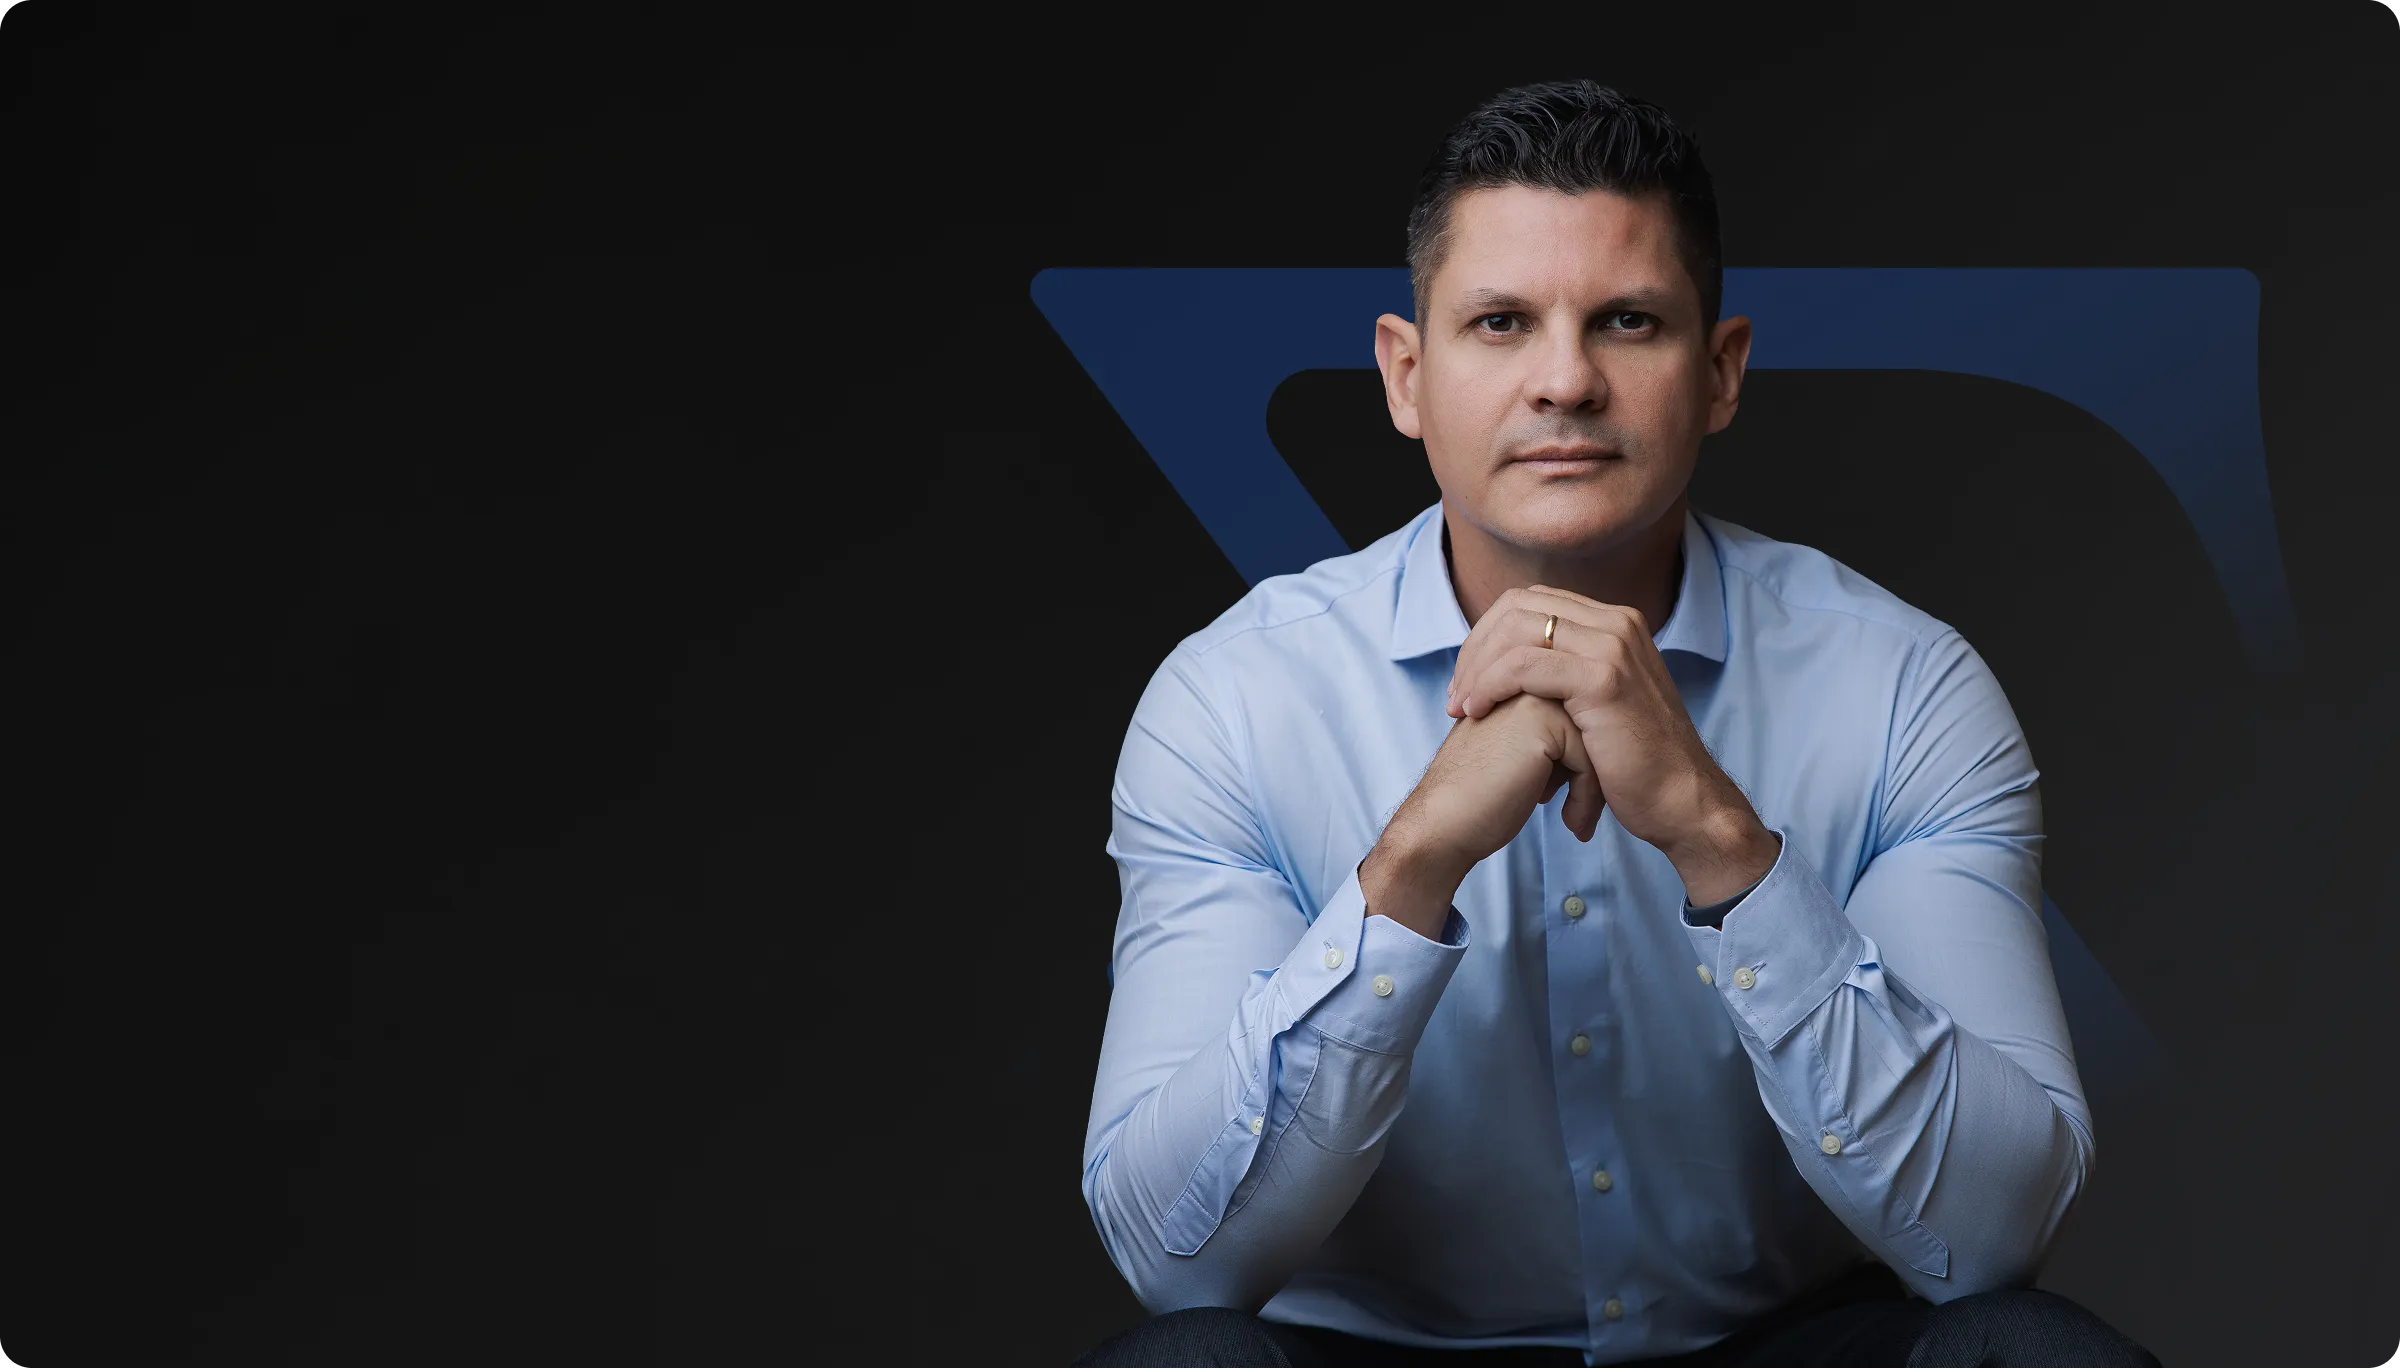
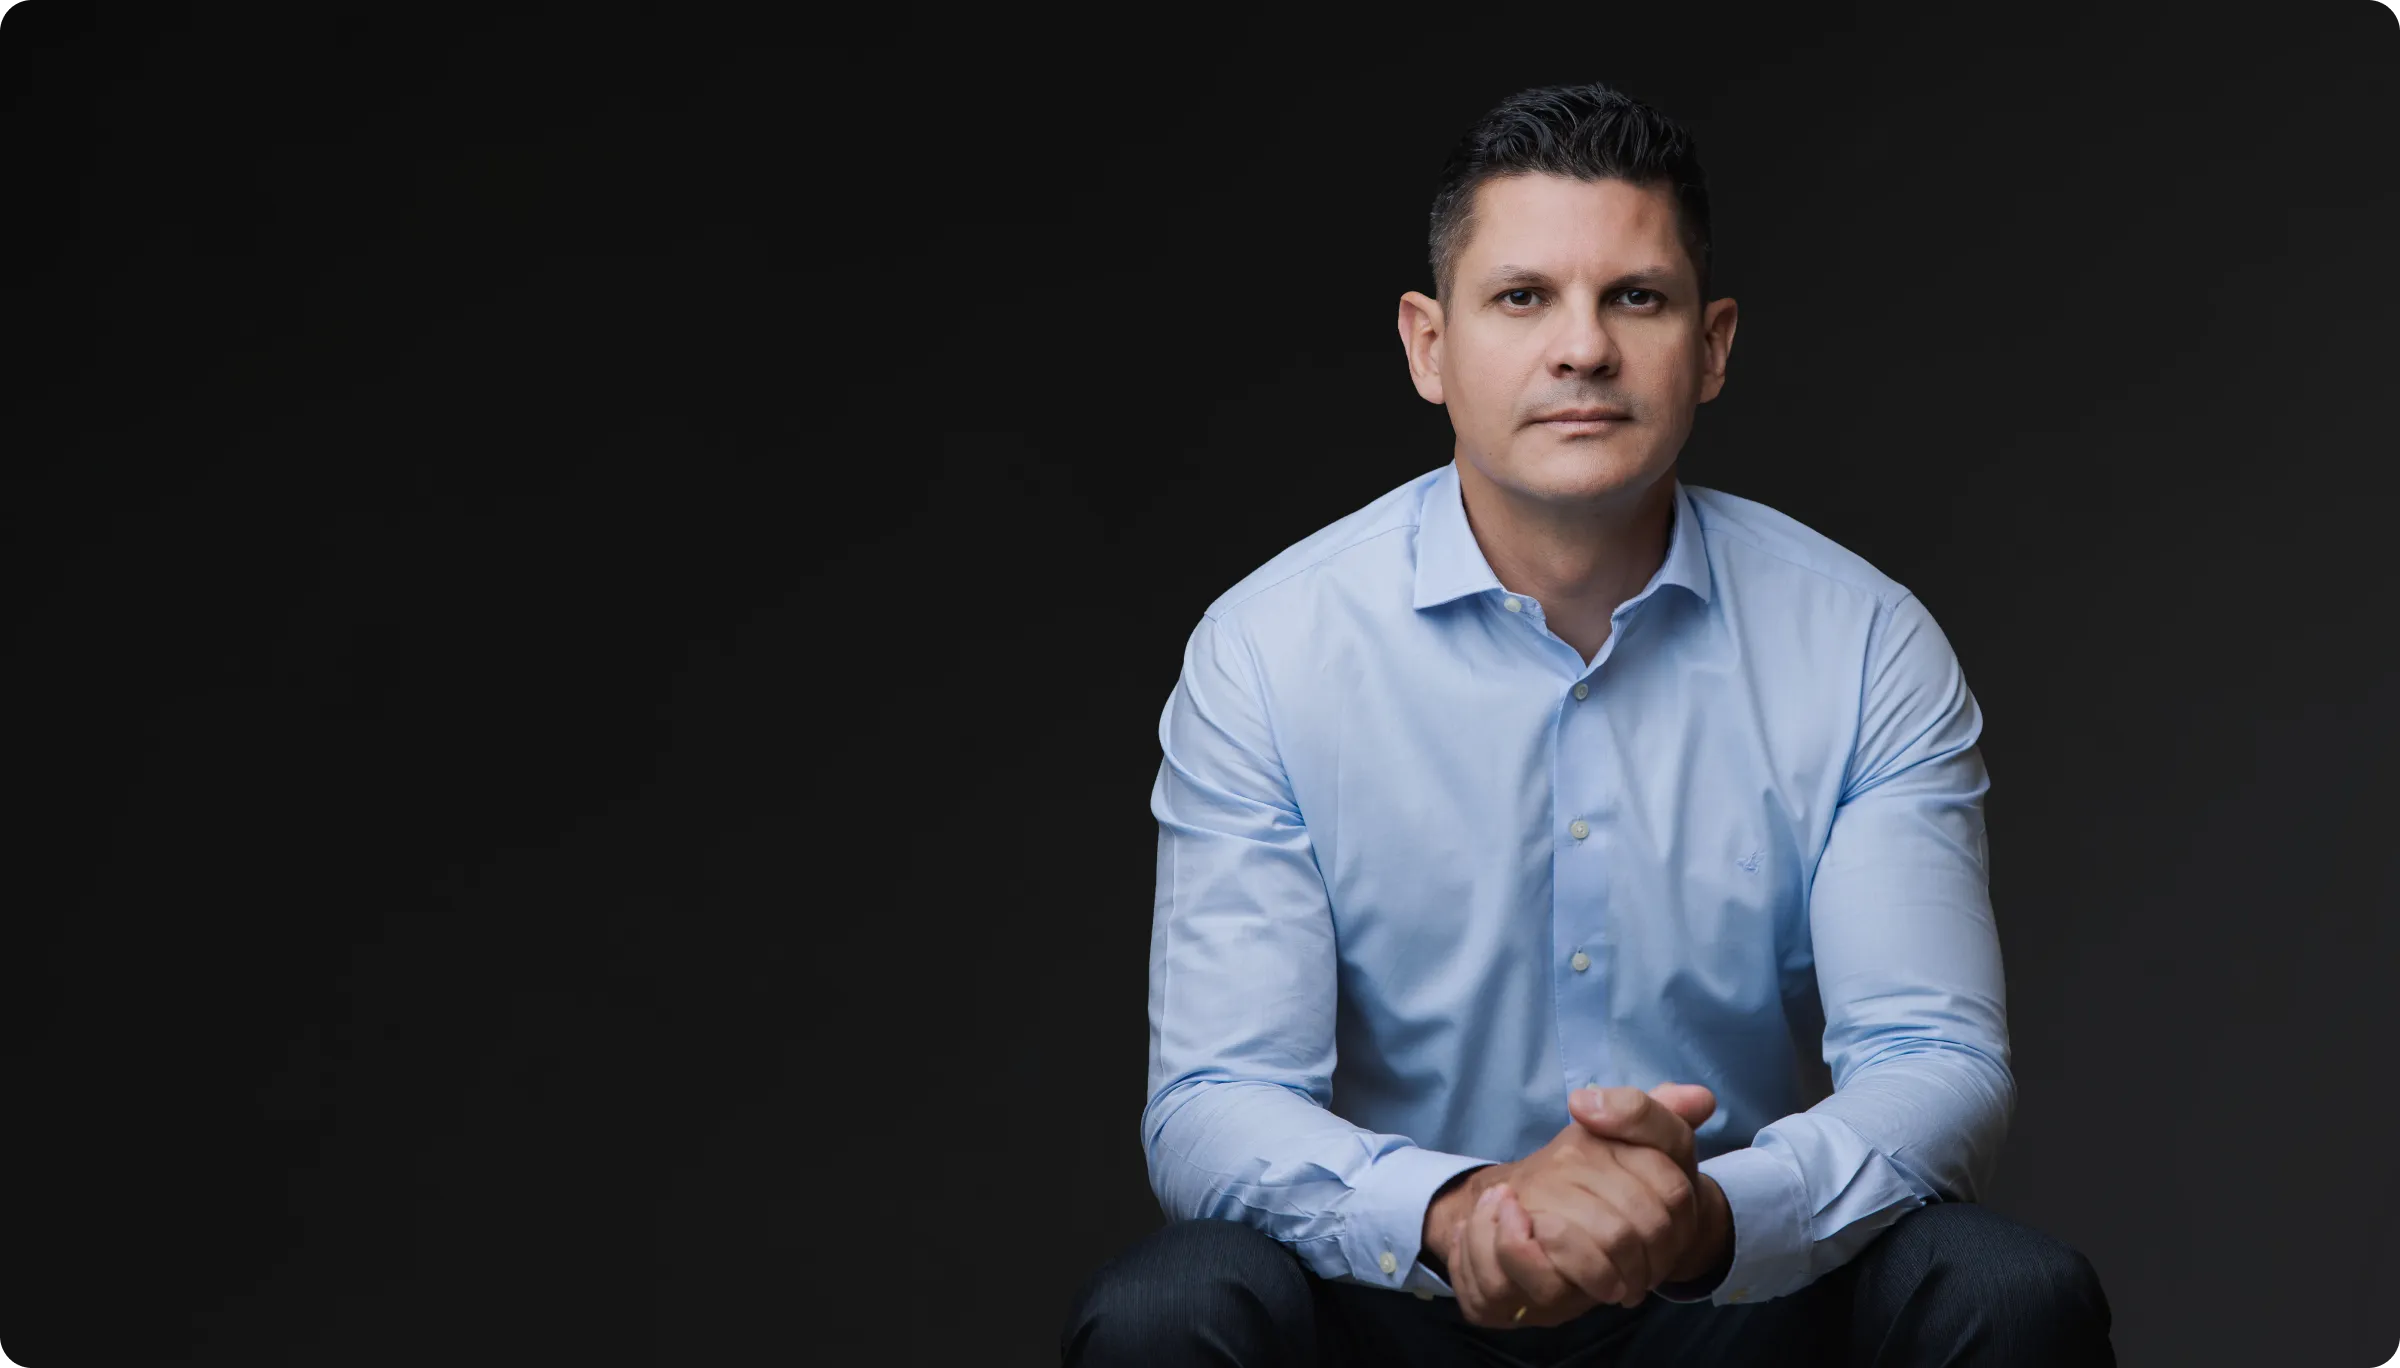
refactor: all the texts buttons has been changed, animations reduced and change image michel

Changed region(s): [[0.4062, 0.0614, 0.9688, 1.0]]

diff --git a/src/app/components/sections/FinalCTARes.tsx b/src/app/components/sections/FinalCTARes.tsx
@@ -117,7 +117,7 @@ export default function ResultNextSteps({ phase = 2 }) {
                   href={getWhatsAppUrl("sessaoEstrategica")}
                   target="_blank"
                 >
-                  Agendar Sessão Estratégica FinanceiraMente
+                  Quero minha sessão estratégica gratuita
                 </Button>
               </motion.div>
             </div>
@@ -174,7 +174,7 @@ export default function ResultNextSteps({ phase = 2 }) {
                 que exigem uma análise mais aprofundada para compreender seus
                 desafios e oportunidades financeiras. Se você quiser explorar
                 com mais profundidade os resultados deste diagnóstico, pode
-                agendar uma Sessão Estratégica FinanceiraMente.
+                agendar uma Sessão Estratégica gratuita - Financeiramente.
               </motion.p>
               <motion.p
                 variants={variants.fadeInUp}
@@ -216,7 +216,7 @@ export default function ResultNextSteps({ phase = 2 }) {
                 href={getWhatsAppUrl("sessaoEstrategica")}
                 target="_blank"
               >
-                Agendar Sessão Estratégica FinanceiraMente
+                Quero minha sessão estratégica gratuita
               </Button>
             </motion.div>
           </motion.div>

diff --git a/src/app/components/sections/FinalCTA.tsx b/src/app/components/sections/FinalCTA.tsx
@@ -69,16 +69,6 @@ export default function FinalCTA() {
               fill
               className="object-cover object-top hover:scale-105 transition-transform duration-1000"
             />
-
-            {/* Tag Flutuante sobre a Imagem */}
-            <div className="absolute top-36 md:top-14 left-1/2 -translate-x-1/2 md:left-auto md:right-1/2 md:translate-x-full lg:right-[55%]">
-              <div className="flex items-center gap-2 px-4 py-1 rounded-full border border-dark bg-dark/40 backdrop-blur-md">
-                <div className="w-2 h-2 rounded-full bg-primary-vibrant shadow-[0_0_10px_rgba(59,130,246,0.5)]" />
-                <span className="text-[10px] md:text-sm tracking-widest text-light">
-                  Aprenda com o Michel
-                </span>
-              </div>
-            </div>
           </motion.div>
 
           {/* 3. Seção de Pontos de Clareza */}

diff --git a/src/app/components/sections/Hero.tsx b/src/app/components/sections/Hero.tsx
@@ -69,7 +69,7 @@ export default function Hero() {
                   href={getWhatsAppUrl("sessaoEstrategica")}
                   target="_blank"
                 >
-                  Agendar Sessão Estratégica Financeiramente
+                  Quero minha sessão estratégica gratuita
                 </Button>
               </motion.div>
             </div>
@@ -97,7 +97,7 @@ export default function Hero() {
           <TrendingUp className="text-light w-6 h-6" />
         </div>
         <div className="text-light text-sm md:text-[15px] leading-snug opacity-90 font-normal">
-          O problema raramente é vender. <br />O problema é crescer com
+          O problema raramente é vender. <br />O problema é crescer sem
           estrutura.
         </div>
       </motion.div>

diff --git a/src/app/components/sections/Hero2.tsx b/src/app/components/sections/Hero2.tsx
@@ -67,7 +67,7 @@ export default function Hero() {
                   href={getWhatsAppUrl("sessaoEstrategica")}
                   target="_blank"
                 >
-                  Agendar Sessão Estratégica
+                  Quero minha sessão estratégica gratuita
                 </Button>
               </motion.div>
             </div>
@@ -93,7 +93,7 @@ export default function Hero() {
           <TrendingUp className="text-light w-6 h-6" />
         </div>
         <div className="text-light text-sm md:text-[15px] leading-snug opacity-90 font-normal">
-          O problema raramente é vender. <br />O problema é crescer com
+          O problema raramente é vender. <br />O problema é crescer sem
           estrutura.
         </div>
       </motion.div>

diff --git a/src/app/components/sections/ProblemReal.tsx b/src/app/components/sections/ProblemReal.tsx
@@ -92,7 +92,7 @@ export default function ProblemReal() {
                 href={getWhatsAppUrl("sessaoEstrategica")}
                 target="_blank"
               >
-                Agendar Sessão Estratégica FinanceiraMente
+                Quero minha sessão estratégica gratuita
               </Button>
             </motion.div>
           </div>
@@ -156,7 +156,7 @@ export default function ProblemReal() {
                 href={getWhatsAppUrl("sessaoEstrategica")}
                 target="_blank"
               >
-                Agendar Sessão Estratégica FinanceiraMente
+                Quero minha sessão estratégica gratuita
               </Button>
             </motion.div>
           </div>

diff --git a/src/app/components/sections/Experience.tsx b/src/app/components/sections/Experience.tsx
@@ -151,11 +151,11 @@ export default function Experience() {
             </motion.p>
 
             <motion.div variants={variants.fadeIn}>
-              <svg className="w-full h-32 md:h-48 overflow-visible">
+              <svg className="w-full h-12 md:h-48 overflow-visible">
                 <text
                   x="0"
                   y="80%"
-                  className="text-8xl md:text-[12rem] font-bold"
+                  className="text-6xl md:text-[12rem] font-bold"
                   fill="rgba(255,255,255,0.05)"
                   stroke="white"
                   strokeWidth="1"

diff --git a/src/app/page.tsx b/src/app/page.tsx
@@ -1,4 +1,4 @@
-import Hero from "./components/sections/Hero";
+import Hero2 from "./components/sections/Hero2";
 import ProblemSection from "./components/sections/ProblemSection";
 import ProblemReal from "./components/sections/ProblemReal";
 import MaturityMap from "./components/sections/MaturityMap";
@@ -17,7 +17,7 @@ export const metadata = {
 export default function Home() {
   return (
     <main>
-      <Hero />
+      <Hero2 />
       <ProblemSection />
       <ProblemReal />
       <MaturityMap />

diff --git a/src/app/politica-de-privacidade/page.tsx b/src/app/politica-de-privacidade/page.tsx
@@ -24,7 +24,7 @@ export default function PrivacyPolicy() {
       <p>
         Coletamos informações fornecidas voluntariamente por você ao preencher o{" "}
         <strong>Diagnóstico de Maturidade Financeira</strong> ou ao agendar uma{" "}
-        <strong>Sessão Estratégica</strong>. Isso inclui:
+        <strong>Sessão Estratégica gratuita</strong>. Isso inclui:
       </p>
       <ul>
         <li>Dados de identificação (Nome, E-mail, Telefone);</li>

diff --git a/src/app/components/sections/Header.tsx b/src/app/components/sections/Header.tsx
@@ -142,7 +142,7 @@ const Header = ({ transparent = false, noBackground = false }: HeaderProps) => {
                   target="_blank"
                   className="w-full py-4 text-base flex justify-center items-center gap-2"
                 >
-                  Agendar Sessão Estratégica
+                  Quero minha sessão estratégica gratuita
                 </Button>
 
                 <Link

diff --git a/src/app/lib/whatsapp.ts b/src/app/lib/whatsapp.ts
@@ -1,8 +1,7 @@
 export const WHATSAPP_NUMBER = "5511981110009";
 
 export const WHATSAPP_MESSAGES = {
-  default:
-    "Olá Michel! Gostaria de agendar uma Sessão Estratégica FinanceiraMente.",
+  default: "Olá Michel! Gostaria de agendar uma Sessão Estratégica gratuita.",
   sessaoEstrategica:
     "Olá Michel! Quero agendar minha Sessão Estratégica FinanceiraMente gratuita.",
 };

diff --git a/src/app/lib/animations.ts b/src/app/lib/animations.ts
@@ -35,4 +35,4 @@ export const variants: NamedVariants = {
   },
 };
 
-export const viewportConfig = { once: true, amount: 0.3 };
+export const viewportConfig = { once: true, amount: 0.1 };
